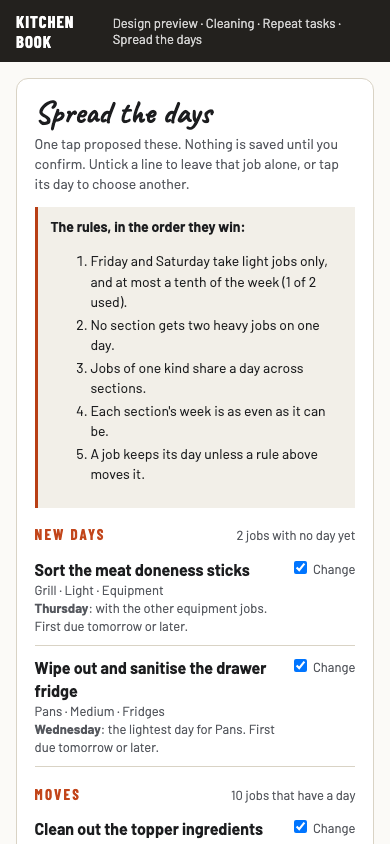
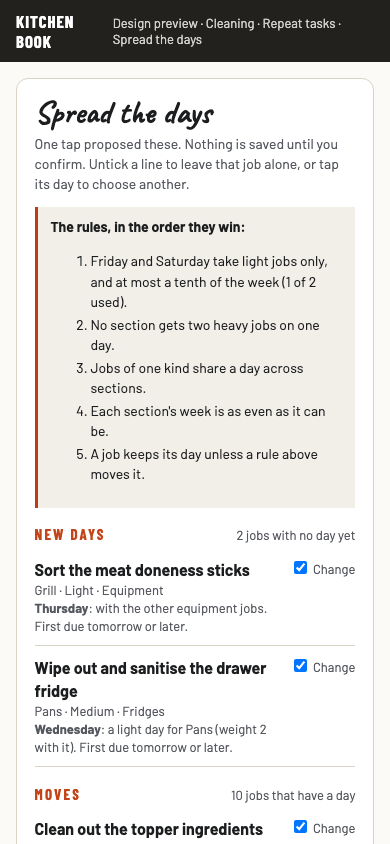
Cleaning tracking and planning the days: the two mixes after round 2
The council ranked the list of changes first for planning (4 of 6) and the
by-job page first for tracking (5 of 6). The head chef then made a missed job
the section's problem, with who was on kept in the background and a morning
flag. Two combined previews, the planner's rule check and same-kind switch
(16 node checks), and the follow-up packet.

Changed region(s): [[0.0923, 0.8626, 0.7077, 0.8934]]

diff --git a/docs/cleaning-tracking-options/previews/p-c.html b/docs/cleaning-tracking-options/previews/p-c.html
@@ -1,2 +1,2 @@
 <!doctype html>
-<html lang="en-AU"><head><meta charset="utf-8"><meta name="viewport" content="width=device-width,initial-scale=1"><title>C. A list of changes</title><link rel="stylesheet" href="../../../css/app.css"><link rel="stylesheet" href="preview.css"></head><body class="pv"><div class="pv-bar"><span>Kitchen Book</span><small>Design preview · Cleaning · Repeat tasks · Spread the days</small></div><main class="pv-page"><section class="pv-card"><h1 class="pv-title">Spread the days</h1><p class="pv-sub">One tap proposed these. Nothing is saved until you confirm. Untick a line to leave that job alone, or tap its day to choose another.</p><div class="pv-rules"><b>The rules, in the order they win:</b><ol><li>Friday and Saturday take light jobs only, and at most a tenth of the week (1 of 2 used).</li><li>No section gets two heavy jobs on one day.</li><li>Jobs of one kind share a day across sections.</li><li>Each section's week is as even as it can be.</li><li>A job keeps its day unless a rule above moves it.</li></ol></div><h2 class="pv-h">New days <span>2 jobs with no day yet</span></h2><div class="pv-row"><div><b>Sort the meat doneness sticks</b><small>Grill · Light · Equipment</small><small><b>Thursday</b>: with the other equipment jobs. First due tomorrow or later.</small></div><div><label class="pv-note"><input type="checkbox" checked> Change</label></div></div><div class="pv-row"><div><b>Wipe out and sanitise the drawer fridge</b><small>Pans · Medium · Fridges</small><small><b>Wednesday</b>: the lightest day for Pans. First due tomorrow or later.</small></div><div><label class="pv-note"><input type="checkbox" checked> Change</label></div></div><h2 class="pv-h">Moves <span>10 jobs that have a day</span></h2><div class="pv-row"><div><b>Clean out the topper ingredients fridge</b><small>Fryers, salads and dessert · Medium · Fridges</small><small>Thursday to <b>Wednesday</b>: with the other fridges jobs. Saved today, a Wednesday: 13 days between its last clean and its next.</small></div><div><label class="pv-note"><input type="checkbox" checked> Change</label></div></div><div class="pv-row"><div><b>Clean out the salad fridge</b><small>Fryers, salads and dessert · Medium · Fridges</small><small>Tuesday to <b>Wednesday</b>: with the other fridges jobs. Saved today, a Wednesday: 8 days between its last clean and its next.</small></div><div><label class="pv-note"><input type="checkbox" checked> Change</label></div></div><div class="pv-row"><div><b>Clean the shelves under the microwave</b><small>Fryers, salads and dessert · Light · Shelves</small><small>Thursday to <b>Monday</b>: with the other shelves jobs. Saved today, a Wednesday: 11 days between its last clean and its next.</small></div><div><label class="pv-note"><input type="checkbox" checked> Change</label></div></div><div class="pv-row"><div><b>Clean the corner shelves above the sink</b><small>Fryers, salads and dessert · Light · Shelves</small><small>Sunday to <b>Monday</b>: with the other shelves jobs. Saved today, a Wednesday: 8 days between its last clean and its next.</small></div><div><label class="pv-note"><input type="checkbox" checked> Change</label></div></div><div class="pv-row"><div><b>Clean out the fridges</b><small>Hot larder · Medium · Fridges</small><small>Monday to <b>Wednesday</b>: with the other fridges jobs. Saved today, a Wednesday: 9 days between its last clean and its next.</small></div><div><label class="pv-note"><input type="checkbox" checked> Change</label></div></div><div class="pv-row"><div><b>Clean behind the pizza ovens</b><small>Hot larder · Heavy · Behind equipment</small><small>Wednesday to <b>Tuesday</b>: with the other behind equipment jobs. Saved today, a Wednesday: 6 days between its last clean and its next.</small></div><div><label class="pv-note"><input type="checkbox" checked> Change</label></div></div><div class="pv-row"><div><b>Clean down the Hot larder shelves</b><small>Hot larder · Medium · Shelves</small><small>Sunday to <b>Monday</b>: with the other shelves jobs. Saved today, a Wednesday: 8 days between its last clean and its next.</small></div><div><label class="pv-note"><input type="checkbox" checked> Change</label></div></div><div class="pv-row"><div><b>Wipe down the oil drum</b><small>Hot larder · Medium · Equipment</small><small>Tuesday to <b>Thursday</b>: with the other equipment jobs. Saved today, a Wednesday: 2 days between its last clean and its next.</small></div><div><label class="pv-note"><input type="checkbox" checked> Change</label></div></div><div class="pv-row"><div><b>Clean the rack trolley</b><small>Hot larder · Medium · Equipment</small><small>Tuesday to <b>Wednesday</b>: not on the equipment day: Hot larder would be too heavy. Saved today, a Wednesday: 8 days between its last clean and its next.</small></div><div><label class="pv-note"><input type="checkbox" checked> Change</label></div></div><div class="pv-row"><div><b>Clean the shelves above the pass</b><small>Shared kitchen · Medium · Shelves</small><small>Wednesday to <b>Monday</b>: with the other shelves jobs. Saved today, a Wednesday: 5 days between its last clean and its next.</small></div><div><label class="pv-note"><input type="checkbox" checked> Change</label></div></div><h2 class="pv-h">Monthly, first dates <span>3 jobs every 4 weeks</span></h2><div class="pv-row"><div><b>Clean behind the grill</b><small>Grill · Heavy · Behind equipment</small><small><b>Tuesday, starting in week 2</b>: with the other behind equipment jobs. Then every 4 weeks.</small></div><div><label class="pv-note"><input type="checkbox" checked> Change</label></div></div><div class="pv-row"><div><b>Clean behind the stove</b><small>Pans · Heavy · Behind equipment</small><small><b>Monday, starting in week 3</b>: not on the behind equipment day: Pans already has a heavy job then. Then every 4 weeks.</small></div><div><label class="pv-note"><input type="checkbox" checked> Change</label></div></div><div class="pv-row"><div><b>Clean behind the deep fryers</b><small>Shared kitchen · Heavy · Behind equipment</small><small><b>Tuesday, starting in week 1</b>: the lightest day for the kitchen. Then every 4 weeks.</small></div><div><label class="pv-note"><input type="checkbox" checked> Change</label></div></div><h2 class="pv-h">Stays <span>5 jobs</span></h2><p class="pv-note">Clean the drawers (Monday) · Clean both sides of the stove (Tuesday) · Clean the takeaway container shelves (Monday) · Deep clean the coldroom floors (Sunday) · Deep clean the oil filter machine (Thursday)</p><div class="pv-save"><span class="hint">Saved 5 at a time, so a lost signal never leaves it half done without saying so.</span><button class="btn dark">Confirm 15 changes</button></div></section></main></body></html>
+<html lang="en-AU"><head><meta charset="utf-8"><meta name="viewport" content="width=device-width,initial-scale=1"><title>C. A list of changes</title><link rel="stylesheet" href="../../../css/app.css"><link rel="stylesheet" href="preview.css"></head><body class="pv"><div class="pv-bar"><span>Kitchen Book</span><small>Design preview · Cleaning · Repeat tasks · Spread the days</small></div><main class="pv-page"><section class="pv-card"><h1 class="pv-title">Spread the days</h1><p class="pv-sub">One tap proposed these. Nothing is saved until you confirm. Untick a line to leave that job alone, or tap its day to choose another.</p><div class="pv-rules"><b>The rules, in the order they win:</b><ol><li>Friday and Saturday take light jobs only, and at most a tenth of the week (1 of 2 used).</li><li>No section gets two heavy jobs on one day.</li><li>Jobs of one kind share a day across sections.</li><li>Each section's week is as even as it can be.</li><li>A job keeps its day unless a rule above moves it.</li></ol></div><h2 class="pv-h">New days <span>2 jobs with no day yet</span></h2><div class="pv-row"><div><b>Sort the meat doneness sticks</b><small>Grill · Light · Equipment</small><small><b>Thursday</b>: with the other equipment jobs. First due tomorrow or later.</small></div><div><label class="pv-note"><input type="checkbox" checked> Change</label></div></div><div class="pv-row"><div><b>Wipe out and sanitise the drawer fridge</b><small>Pans · Medium · Fridges</small><small><b>Wednesday</b>: a light day for Pans (weight 2 with it). First due tomorrow or later.</small></div><div><label class="pv-note"><input type="checkbox" checked> Change</label></div></div><h2 class="pv-h">Moves <span>10 jobs that have a day</span></h2><div class="pv-row"><div><b>Clean out the topper ingredients fridge</b><small>Fryers, salads and dessert · Medium · Fridges</small><small>Thursday to <b>Wednesday</b>: with the other fridges jobs. Saved today, a Wednesday: 13 days between its last clean and its next.</small></div><div><label class="pv-note"><input type="checkbox" checked> Change</label></div></div><div class="pv-row"><div><b>Clean out the salad fridge</b><small>Fryers, salads and dessert · Medium · Fridges</small><small>Tuesday to <b>Wednesday</b>: with the other fridges jobs. Saved today, a Wednesday: 8 days between its last clean and its next.</small></div><div><label class="pv-note"><input type="checkbox" checked> Change</label></div></div><div class="pv-row"><div><b>Clean the shelves under the microwave</b><small>Fryers, salads and dessert · Light · Shelves</small><small>Thursday to <b>Monday</b>: with the other shelves jobs. Saved today, a Wednesday: 11 days between its last clean and its next.</small></div><div><label class="pv-note"><input type="checkbox" checked> Change</label></div></div><div class="pv-row"><div><b>Clean the corner shelves above the sink</b><small>Fryers, salads and dessert · Light · Shelves</small><small>Sunday to <b>Monday</b>: with the other shelves jobs. Saved today, a Wednesday: 8 days between its last clean and its next.</small></div><div><label class="pv-note"><input type="checkbox" checked> Change</label></div></div><div class="pv-row"><div><b>Clean out the fridges</b><small>Hot larder · Medium · Fridges</small><small>Monday to <b>Wednesday</b>: with the other fridges jobs. Saved today, a Wednesday: 9 days between its last clean and its next.</small></div><div><label class="pv-note"><input type="checkbox" checked> Change</label></div></div><div class="pv-row"><div><b>Clean behind the pizza ovens</b><small>Hot larder · Heavy · Behind equipment</small><small>Wednesday to <b>Tuesday</b>: with the other behind equipment jobs. Saved today, a Wednesday: 6 days between its last clean and its next.</small></div><div><label class="pv-note"><input type="checkbox" checked> Change</label></div></div><div class="pv-row"><div><b>Clean down the Hot larder shelves</b><small>Hot larder · Medium · Shelves</small><small>Sunday to <b>Monday</b>: with the other shelves jobs. Saved today, a Wednesday: 8 days between its last clean and its next.</small></div><div><label class="pv-note"><input type="checkbox" checked> Change</label></div></div><div class="pv-row"><div><b>Wipe down the oil drum</b><small>Hot larder · Medium · Equipment</small><small>Tuesday to <b>Thursday</b>: with the other equipment jobs. Saved today, a Wednesday: 2 days between its last clean and its next.</small></div><div><label class="pv-note"><input type="checkbox" checked> Change</label></div></div><div class="pv-row"><div><b>Clean the rack trolley</b><small>Hot larder · Medium · Equipment</small><small>Tuesday to <b>Wednesday</b>: not on the equipment day: Hot larder would be too heavy. Saved today, a Wednesday: 8 days between its last clean and its next.</small></div><div><label class="pv-note"><input type="checkbox" checked> Change</label></div></div><div class="pv-row"><div><b>Clean the shelves above the pass</b><small>Shared kitchen · Medium · Shelves</small><small>Wednesday to <b>Monday</b>: with the other shelves jobs. Saved today, a Wednesday: 5 days between its last clean and its next.</small></div><div><label class="pv-note"><input type="checkbox" checked> Change</label></div></div><h2 class="pv-h">Monthly, first dates <span>3 jobs every 4 weeks</span></h2><div class="pv-row"><div><b>Clean behind the grill</b><small>Grill · Heavy · Behind equipment</small><small><b>Tuesday, starting in week 2</b>: with the other behind equipment jobs. Then every 4 weeks.</small></div><div><label class="pv-note"><input type="checkbox" checked> Change</label></div></div><div class="pv-row"><div><b>Clean behind the stove</b><small>Pans · Heavy · Behind equipment</small><small><b>Monday, starting in week 3</b>: not on the behind equipment day: Pans already has a heavy job then. Then every 4 weeks.</small></div><div><label class="pv-note"><input type="checkbox" checked> Change</label></div></div><div class="pv-row"><div><b>Clean behind the deep fryers</b><small>Shared kitchen · Heavy · Behind equipment</small><small><b>Tuesday, starting in week 1</b>: a day the rules allow. Then every 4 weeks.</small></div><div><label class="pv-note"><input type="checkbox" checked> Change</label></div></div><h2 class="pv-h">Stays <span>5 jobs</span></h2><p class="pv-note">Clean the drawers (Monday) · Clean both sides of the stove (Tuesday) · Clean the takeaway container shelves (Monday) · Deep clean the coldroom floors (Sunday) · Deep clean the oil filter machine (Thursday)</p><div class="pv-save"><span class="hint">Saved 5 at a time, so a lost signal never leaves it half done without saying so.</span><button class="btn dark">Confirm 15 changes</button></div></section></main></body></html>

diff --git a/docs/cleaning-tracking-options/previews/p-mix.html b/docs/cleaning-tracking-options/previews/p-mix.html
@@ -1,0 +1,2 @@
+<!doctype html>
+<html lang="en-AU"><head><meta charset="utf-8"><meta name="viewport" content="width=device-width,initial-scale=1"><title>The mix: plan the days</title><link rel="stylesheet" href="../../../css/app.css"><link rel="stylesheet" href="preview.css"></head><body class="pv"><div class="pv-bar"><span>Kitchen Book</span><small>Design preview · Cleaning · Repeat tasks · Plan the days</small></div><main class="pv-page"><section class="pv-card"><h1 class="pv-title">Plan the days</h1><p class="pv-sub">The book proposes. Nothing is saved until you press Save. Nightly jobs, the numbered Pack down steps and the general list are never moved.</p><div class="pv-field"><span class="label">Jobs of one kind on the same day</span><div class="pv-chips chips"><button class="chip" aria-pressed="true">On<small>10 jobs move</small></button><button class="chip" aria-pressed="false">Off<small>1 job moves</small></button></div><span class="hint">On: shelves on Monday, fridges on Wednesday, behind equipment on Tuesday, and a less even week. Off: your days stay, new jobs go on light days.</span></div><h2 class="pv-h">The week <span>weekly jobs each day: now, then with this plan</span></h2><div class="pv-strip"><div><b>Mon</b><span>4 → 7</span></div><div><b>Tue</b><span>4 → 2</span></div><div><b>Wed</b><span>4 → 7</span></div><div><b>Thu</b><span>4 → 4</span></div><div><b>Fri</b><span>1 → 1</span><small>light only</small></div><div><b>Sat</b><span>0 → 0</span><small>light only</small></div><div><b>Sun</b><span>7 → 5</span></div></div><p class="pv-note">Friday and Saturday: 1 of at most 2 jobs, light only. Every rule holds.</p><h2 class="pv-h">New days <span>2 jobs with no day yet</span></h2><div class="pv-row"><div><b>Sort the meat doneness sticks</b><small>Grill · Light · Equipment</small><small><span class="pv-tag">Proposed, not saved</span> With the other equipment jobs. A new job starts today.</small><div class="pv-chips chips"><button class="chip" aria-pressed="false">Mon<small>Grill has 1</small></button><button class="chip" aria-pressed="false">Tue<small>Grill has 0</small></button><button class="chip" aria-pressed="false">Wed<small>Grill has 0</small></button><button class="chip" aria-pressed="true">Thu<small>suggested</small></button><button class="chip" aria-pressed="false">Fri<small>light only</small></button><button class="chip" aria-pressed="false">Sat<small>light only</small></button><button class="chip" aria-pressed="false">Sun<small>Grill has 1</small></button></div></div><div><button class="btn">Close</button></div></div><div class="pv-row"><div><b>Wipe out and sanitise the drawer fridge</b><small>Pans · Medium · Fridges</small><small><b>Wednesday</b>: a light day for Pans (weight 2 with it). A new job starts today.</small><small><span class="pv-tag">Proposed, not saved</span></small></div><div><button class="btn">Wed ▾</button></div></div><h2 class="pv-h">Moves <span>10 jobs that have a day</span></h2><p class="pv-note">A move starts tomorrow. Each line says how long that job waits this once, if you save today, a Wednesday.</p><div class="pv-row"><div><b>Clean out the topper ingredients fridge</b><small>Fryers, salads and dessert · Medium · Fridges</small><small>Thursday to <b>Wednesday</b>. <b>13 days</b> between its last clean and its next. With the other fridges jobs.</small><small><span class="pv-tag">Proposed, not saved</span></small></div><div><button class="btn">Leave on Thu</button></div></div><div class="pv-row"><div><b>Clean out the salad fridge</b><small>Fryers, salads and dessert · Medium · Fridges</small><small>Tuesday to <b>Wednesday</b>. <b>8 days</b> between its last clean and its next. With the other fridges jobs.</small><small><span class="pv-tag">Proposed, not saved</span></small></div><div><button class="btn">Leave on Tue</button></div></div><div class="pv-row"><div><b>Clean the shelves under the microwave</b><small>Fryers, salads and dessert · Light · Shelves</small><small>Thursday to <b>Monday</b>. <b>11 days</b> between its last clean and its next. With the other shelves jobs.</small><small><span class="pv-tag">Proposed, not saved</span></small></div><div><button class="btn">Leave on Thu</button></div></div><p class="pv-note">and 7 more moves, each with its days and its wait.</p><h2 class="pv-h">Monthly, first dates <span>3 jobs every 4 weeks</span></h2><div class="pv-row"><div><b>Clean behind the grill</b><small>Grill · Heavy · Behind equipment</small><small><b>Tuesday 8 December</b>, then every 4 weeks. With the other behind equipment jobs.</small><small><span class="pv-tag">Proposed, not saved</span></small></div><div><button class="btn">Pick a date</button></div></div><div class="pv-row"><div><b>Clean behind the stove</b><small>Pans · Heavy · Behind equipment</small><small><b>Monday 14 December</b>, then every 4 weeks. Not on the behind equipment day: Pans already has a heavy job then.</small><small><span class="pv-tag">Proposed, not saved</span></small></div><div><button class="btn">Pick a date</button></div></div><div class="pv-row"><div><b>Clean behind the deep fryers</b><small>Shared kitchen · Heavy · Behind equipment</small><small><b>Tuesday 1 December</b>, then every 4 weeks. A day the rules allow.</small><small><span class="pv-tag">Proposed, not saved</span></small></div><div><button class="btn">Pick a date</button></div></div><details class="pv-fold"><summary>How the days are chosen</summary><ol><li>Friday and Saturday take light jobs only, and at most a tenth of the week. A job with no weight is never light.</li><li>No section gets two heavy jobs on one day.</li><li>With the switch on, jobs of one kind share a day, unless that makes a section's day too heavy.</li><li>Each section's week is as even as it can be.</li><li>A job keeps its day unless a rule above moves it.</li></ol></details><div class="pv-save"><span class="hint">0 of 15 saved. Saved 5 at a time: if the signal drops, this line says how many are in and what is left.</span><button class="btn dark">Save 15 changes</button></div></section></main></body></html>

diff --git a/docs/cleaning-tracking-options/previews/planner.js b/docs/cleaning-tracking-options/previews/planner.js
@@ -6,7 +6,9 @@
           per (days a week it happens, 1 to 3), days (the weekdays it has now, [] for none; 0 is Sunday),
           move (the chef chose it to be planned), every (28 for a monthly job) }
    A job that is not chosen (move false) is never touched: it only counts toward each day's load.
-   opts: { quiet: [5, 6] (Friday, Saturday), share: 0.1, cap: 5 }
+   opts: { quiet: [5, 6] (Friday, Saturday), share: 0.1, cap: 5, together: true (jobs of one kind share a day) }
+   check(jobs, days, opts) -> the rules a set of days breaks, in words ([] for none): what a page runs again whenever a
+   chef changes or leaves out one line of a proposal, so a plan never breaks its own rules without saying so.
 
    The order the rules win in, when they pull against each other:
    1. Friday and Saturday take light jobs only. A job with no weight is never treated as light.
@@ -33,7 +35,7 @@
   }
   function plan(jobs, opts) {
     opts = opts || {};
-    var quiet = opts.quiet || [5, 6], share = opts.share === undefined ? 0.1 : opts.share, cap = opts.cap || 5;
+    var quiet = opts.quiet || [5, 6], share = opts.share === undefined ? 0.1 : opts.share, cap = opts.cap || 5, together = opts.together !== false;
     // a job's time cost in the day's load: light 1, medium 2, heavy 3. Not set counts as medium there, and is never
     // light enough for Friday or Saturday (rule 1).
     var cost = function (j) { return j.w >= 1 && j.w <= 3 ? j.w : 2; };
@@ -57,10 +59,10 @@
         if (q && (j.w !== 1 || quietUsed + q > quietMax)) return;                                          // rules 1 and 2
         if (j.w === 3 && j.sec && set.some(function (d) { return heavy[j.sec] && heavy[j.sec][d]; })) { if (j.kind && kinds[j.kind] && set.some(function (d) { return kinds[j.kind][d]; })) heavyGave = true; return; }   // rule 3
         var load = j.sec ? set.reduce(function (n, d) { return Math.max(n, ((sec[j.sec] || [])[d] || 0) + cost(j)); }, 0) : 0;
-        var mates = set.reduce(function (n, d) { return n + (j.kind && kinds[j.kind] ? kinds[j.kind][d] : 0); }, 0);
+        var mates = together ? set.reduce(function (n, d) { return n + (j.kind && kinds[j.kind] ? kinds[j.kind][d] : 0); }, 0) : 0;
         var over = load > cap, score = (over ? 0 : -1000 * mates) + (set.join(',') === was ? -300 : 0) + 100 * load + 10 * set.reduce(function (n, d) { return n + kitchen[d]; }, 0);
         if (over && mates) kindGave = true;
-        if (!best || score < best.score) best = { set: set, score: score, mates: mates, over: over };
+        if (!best || score < best.score) best = { set: set, score: score, mates: mates, over: over, load: load };
       });
       if (!best) { out.days[j.id] = (j.days || []).slice(); out.why[j.id] = 'No day fits the rules. Left as it is.'; return; }
       best.set.forEach(function (d) { put(j, d); if (quiet.indexOf(d) >= 0) quietUsed++; });
@@ -71,12 +73,30 @@
       if (best.mates && !best.over) bits.push('with the other ' + j.kind.toLowerCase() + ' jobs');
       else if (j.kind && heavyGave) { bits.push('not on the ' + j.kind.toLowerCase() + ' day: ' + where + ' already has a heavy job then'); out.gave.push(j.id); }
       else if (j.kind && kindGave) { bits.push('not on the ' + j.kind.toLowerCase() + ' day: ' + where + ' would be too heavy'); out.gave.push(j.id); }
-      else if (best.set.join(',') !== was) bits.push('the lightest day for ' + where);
+      else if (best.set.join(',') !== was) bits.push(j.sec ? 'a light day for ' + where + ' (weight ' + best.load + ' with it)' : 'a day the rules allow');
       out.why[j.id] = bits.join(', ');
     });
     out.load = { sections: sec, kitchen: kitchen }; out.quiet = { used: quietUsed, most: quietMax, of: total };
     return out;
   }
-  var api = { plan: plan, sets: sets, NAMES: NAMES };
+  function check(jobs, days, opts) {
+    opts = opts || {};
+    var quiet = opts.quiet || [5, 6], share = opts.share === undefined ? 0.1 : opts.share, cap = opts.cap || 5, out = [], sec = {}, heavy = {}, q = 0, total = 0;
+    jobs.forEach(function (j) {
+      var mine = days[j.id] || (j.every ? [] : j.days || []);
+      if (!j.every && mine.length >= 7 || !mine.length) return;
+      total += mine.length;
+      mine.forEach(function (d) {
+        if (quiet.indexOf(d) >= 0) { q++; if (days[j.id] && j.w !== 1) out.push(j.text + ': only a light job goes on ' + NAMES[d]); }
+        if (!j.sec) return;
+        sec[j.sec] = sec[j.sec] || [0, 0, 0, 0, 0, 0, 0]; sec[j.sec][d] += j.w >= 1 && j.w <= 3 ? j.w : 2;
+        if (j.w === 3) { heavy[j.sec + d] = (heavy[j.sec + d] || 0) + 1; if (heavy[j.sec + d] === 2) out.push(j.sec + ' has two heavy jobs on ' + NAMES[d]); }
+      });
+    });
+    if (q > Math.floor(total * share)) out.push('Friday and Saturday hold ' + q + ' jobs, more than a tenth of the week');
+    Object.keys(sec).forEach(function (name) { sec[name].forEach(function (load, d) { if (load > cap && jobs.some(function (j) { return days[j.id] && j.sec === name && days[j.id].indexOf(d) >= 0; })) out.push(name + ' is at weight ' + load + ' on ' + NAMES[d] + ', over ' + cap); }); });
+    return out;
+  }
+  var api = { plan: plan, check: check, sets: sets, NAMES: NAMES };
   if (typeof module === 'object' && module.exports) module.exports = api; else root.LK_CLEAN_PLANNER = api;
 })(typeof window === 'undefined' ? this : window);

diff --git a/docs/cleaning-tracking-options/previews/t-mix.html b/docs/cleaning-tracking-options/previews/t-mix.html
@@ -1,0 +1,2 @@
+<!doctype html>
+<html lang="en-AU"><head><meta charset="utf-8"><meta name="viewport" content="width=device-width,initial-scale=1"><title>The mix: cleaning by section</title><link rel="stylesheet" href="../../../css/app.css"><link rel="stylesheet" href="preview.css"></head><body class="pv"><div class="pv-bar"><span>Kitchen Book</span><small>Design preview · Admin · Inbox, and Reports · Cleaning</small></div><main class="pv-page"><section class="pv-card"><h1 class="pv-title">Cleaning by section</h1><p class="pv-sub">A missed job is the section's, not one person's. Who was on that section at close is kept beside it. Nobody has a total.</p><div class="pv-rules"><b>This morning, in your Inbox</b><div class="pv-row"><div><b>Hot larder left 1 job last night</b><small>Wednesday 25 November · Clean behind the pizza ovens (every Wednesday)</small><small>On Hot larder at close: Lou, Vic</small></div><div></div></div><div class="pv-row"><div><b>Shared kitchen left 1 job last night</b><small>Wednesday 25 November · Clean the shelves above the pass (every Wednesday)</small><small>A shared job: no names.</small></div><div></div></div><p class="pv-note">Grill, Pans and Fryers finished everything. Missed means not ticked by midnight.</p></div><h2 class="pv-h">The last 4 weeks <span>weekly and monthly jobs</span></h2><div class="pv-row"><div><b>Grill</b><small>2 missed in 4 weeks</small><small><b>Clean the drawers</b> · missed Mon 9 Nov (on Grill at close: Ann) and Mon 16 Nov (on Grill at close: Ann, Bo)</small><small>Done Mon 2 Nov (Bo, 21:40) and Mon 23 Nov (Ann, 22:05)</small><small><b>Clean behind the grill</b> · done Tue 17 Nov (Bo, 22:10)</small></div><div class="pv-num">6 of 8</div></div><div class="pv-row"><div><b>Pans</b><small>Nothing missed in 4 weeks</small></div><div class="pv-num">4 of 4</div></div><div class="pv-row"><div><b>Fryers</b><small>1 missed in 4 weeks</small></div><div class="pv-num">19 of 20</div></div><div class="pv-row"><div><b>Hot larder</b><small>1 missed in 4 weeks</small></div><div class="pv-num">26 of 27</div></div><div class="pv-row"><div><b>Shared kitchen</b><small>1 missed in 4 weeks</small></div><div class="pv-num">8 of 9</div></div><h2 class="pv-h">Unable to complete <span>not a miss, not in the totals</span></h2><div class="pv-row"><div><b>Deep clean the oil filter machine</b><small>Hot larder · Thu 5 Nov · "No degreaser"</small></div><div></div></div><details class="pv-fold"><summary>How this is counted</summary><ul><li>A missed job belongs to its section. Shared kitchen jobs are counted, with no names.</li><li>"On at close" is who the plan, or their own pick, had on that section for the last service that day. A day with no plan says "nobody on the plan".</li><li>A job marked Unable to complete, with its reason, is not a miss and is not in the totals.</li><li>Missed means not ticked by midnight.</li><li>Counting starts the first night after Cleaning is switched on.</li><li>Nobody is ranked and nobody has a total.</li></ul></details></section></main></body></html>

diff --git a/docs/cleaning-tracking-options/previews/planner.test.js b/docs/cleaning-tracking-options/previews/planner.test.js
@@ -22,4 +22,14 @@ ok(twice.length === 2 && Math.min(Math.abs(twice[0] - twice[1]), 7 - Math.abs(tw
 const months = jobs.filter(j => j.move && j.every === 28).map(j => r.week[j.id]);
 ok(months.length === 3 && new Set(months).size === 3, 'the three monthly jobs start in different weeks (' + months + ')');
 ok(by('sc-hot-04').days.join() === r.days['sc-hot-04'].join() && by('sc-grill-01').days.join() === r.days['sc-grill-01'].join(), 'a job with no reason to move keeps its day');
+// leaving one line out of a proposal: the page checks the rest again and says what it breaks
+ok(P.check(jobs, r.days).length === 0, 'the whole proposal breaks none of its own rules (' + P.check(jobs, r.days).join('; ') + ')');
+const without = Object.assign({}, r.days); delete without['sc-hot-02'];
+ok(P.check(jobs, without).some(m => /Hot larder is at weight/.test(m)), 'with one line left out, the check says which day is now too heavy (' + P.check(jobs, without).join('; ') + ')');
+// same kind on the same day is a choice: off, the week is spread by load alone
+const apart = P.plan(J.jobs(chosen), { together: false });
+const perDay = d => jobs.filter(j => !j.every && (j.move ? apart.days[j.id] : j.days.length < 7 ? j.days : []).includes(d)).length;
+ok(new Set(jobs.filter(j => j.move && j.kind === 'Shelves').map(j => apart.days[j.id][0])).size > 1, 'with same-kind days off, shelves jobs are not pulled onto one day');
+ok(P.check(jobs, apart.days).length === 0, 'the plan with same-kind days off also breaks no rule');
+console.log('with same-kind days: ' + [0, 1, 2, 3, 4, 5, 6].map(d => jobs.filter(j => !j.every && (j.move ? r.days[j.id] : j.days.length < 7 ? j.days : []).includes(d)).length).join(',') + '; without: ' + [0, 1, 2, 3, 4, 5, 6].map(perDay).join(',') + '; moved without: ' + jobs.filter(j => j.move && j.days.length && j.days.length < 7 && j.days.join() !== apart.days[j.id].join()).length);
 console.log('PASS planner: ' + n + ' checks');

diff --git a/docs/cleaning-tracking-options/previews/preview.css b/docs/cleaning-tracking-options/previews/preview.css
@@ -40,3 +40,11 @@ body.pv { margin: 0; background: var(--bg, #efece4); color: var(--ink, #1c1b19);
 .pv-field { margin: .7rem 0 0; }
 @media (min-width: 900px) { .pv-two { display: grid; grid-template-columns: repeat(2, minmax(0, 1fr)); gap: 0 2rem; } .pv-week { display: grid; grid-template-columns: repeat(7, minmax(0, 1fr)); gap: .5rem; } .pv-week .pv-day { border: 0; } .pv-week .pv-job { flex-direction: column; gap: .1rem; } }
 .pv-card .field input, .pv-card .field select { min-height: 44px; }
+.pv-strip { display: grid; grid-template-columns: repeat(7, minmax(0, 1fr)); gap: .25rem; margin: .3rem 0; }
+.pv-strip div { padding: .35rem .15rem; border: 1px solid var(--rule, #d9d3c5); border-radius: 8px; background: #fff; text-align: center; }
+.pv-strip b { display: block; font: 700 .8125rem var(--display, 'Barlow Condensed', sans-serif); letter-spacing: .06em; text-transform: uppercase; }
+.pv-strip span { display: block; font: 700 1.05rem/1.2 var(--body, 'Barlow', sans-serif); white-space: nowrap; }
+.pv-strip small { display: block; font-size: .625rem; color: var(--muted, #5f5a50); }
+.pv-fold { margin: 1rem 0 0; font-size: .875rem; }
+.pv-fold summary { min-height: 44px; padding: .65rem 0; font-weight: 600; cursor: pointer; }
+.pv-row .btn { min-height: 44px; white-space: nowrap; }

diff --git a/docs/cleaning-tracking-options/round2-followup.md b/docs/cleaning-tracking-options/round2-followup.md
@@ -1,0 +1,47 @@
+# Cleaning tracking and planning the days: follow-up packet on the two mixes
+
+26 November 2026. Source commit `91c5bc4b`. A focused follow-up for the skeptic, the keeper of the book and the cook. It holds no recommendation. `round2-packet.md` still applies: its contracts, design references and Try to break it are unchanged.
+
+## What changed since you scored the six designs
+
+Rankings, best first, as each reviewer gave them:
+
+| Reviewer | Planning | Tracking |
+| --- | --- | --- |
+| Cook | P-C, P-A, P-B | T-A, T-B, T-C |
+| Head chef | P-B, P-A, P-C | T-A, T-C, T-B |
+| Skeptic | P-A, P-C, P-B | T-A, T-B, T-C |
+| New starter | P-C, P-A, P-B | T-C, T-A, T-B |
+| Keeper | P-C, P-A, P-B | T-A, T-B, T-C |
+| Screen designer | P-C, P-A, P-B | T-A, T-C, T-B |
+
+Five of six asked for a planning blend: P-C's list as the frame, P-A's weight and kind fields and day chips, P-B's week as counts, not a board. The skeptic asked for P-A with P-C's wait line and bulk moves held back.
+
+Then the head chef, on tracking, in his words: "just make the section jobs a section problem, not the person's problem, but track in the background that if a person was on grill for example the night before to flag if not all tasks for that section have been done in the section." So the by-person page (T-C) is out, at his word.
+
+## Faults the six reviewers found, and what the mixes do about each
+
+- Same-kind days make the week less even on the book's own list: weekly jobs per day, Sunday to Saturday, 7,4,4,4,4,1,0 today and 5,7,2,7,4,1,0 with the plan, for 10 moves. With same-kind days off: 7,4,4,5,4,1,1 for 1 move (`planner.test.js` prints both). The mix makes it a visible switch.
+- Leaving one line out could break a rule with nothing said. `planner.js` now has `check()`, which names the rule a set of days breaks; the page runs it whenever a line is changed or left out (2 node checks).
+- "The lightest day for the kitchen" was untrue on a heavy Tuesday. The reason now says "a light day for Pans (weight 2 with it)" or "a day the rules allow".
+- A tick that meant "move this job" read as "done". Each line has a button with words: "Leave on Thu".
+- No line said "Proposed, not saved". Each does now.
+- "First due tomorrow or later" was false for a new job. The mix says "A new job starts today" and "A move starts tomorrow".
+- The rules box filled the first screen. It is folded at the bottom.
+- Monthly lines said "starting in week 2". They now give a date.
+- "On that section that day" ignored shifts. The tracking mix says "on at close": who the plan, or their own pick, had on that section for the last service that day.
+- Unable to complete lowered the total. It is now outside the totals.
+- Shared kitchen jobs were left out. They are counted, with no names.
+- "Counted from the day Cleaning was switched on" had no record behind it. The mix says counting starts the first night after Cleaning is switched on, which the nightly job would record.
+
+Not fixed in a drawing, still open: a save that straddles midnight; what a page does after a lock with a proposal on screen; which home weight and kind get; a close finished after midnight read as missed; a past day counted once and never corrected; tracking keyed by a job's root id across moves; whether the day flags read by the admin only.
+
+## The two mixes (lead's draft)
+
+Pictures under `docs/cleaning-tracking-options/previews/`: `p-mix-390.png`, `p-mix-390-full.png`, `p-mix-1280.png`, `t-mix-390.png`, `t-mix-390-full.png`, `t-mix-1280.png`, and the pages as `.html`.
+
+**P-mix, Plan the days.** One page in Repeat tasks. A switch, "Jobs of one kind on the same day", On or Off, each saying how many jobs move. A strip of the seven days with weekly jobs now and with this plan, and the Friday and Saturday line. Then lines: new days (one shown opened, with day chips that say what that section has each day), moves (old day, new day, the wait in days this once, the reason, a button to leave it), monthly first dates as dates. Every line says "Proposed, not saved". One Save, 5 at a time, with "0 of 15 saved". The rules are folded at the bottom. Weight and kind are set in the job's own form, as in P-A.
+
+**T-mix, Cleaning by section.** No person has a total. A flag in the admin Inbox the next morning: "Hot larder left 1 job last night", the job, and who was on that section at close; a shared job with no names. Below, in Reports, one row per section for the last 4 weeks, done out of due, opening to each missed job with its dates and who was on at close, and each done job with who did it and when. Unable to complete is apart and outside the totals. The counting rules are folded at the bottom.
+
+Measured, Preview (schematic, 390 x 844): P-mix 2.8 screens long, T-mix 1.4, no sideways scroll, no control under 44 px high. Nothing was tapped, saved or timed.
